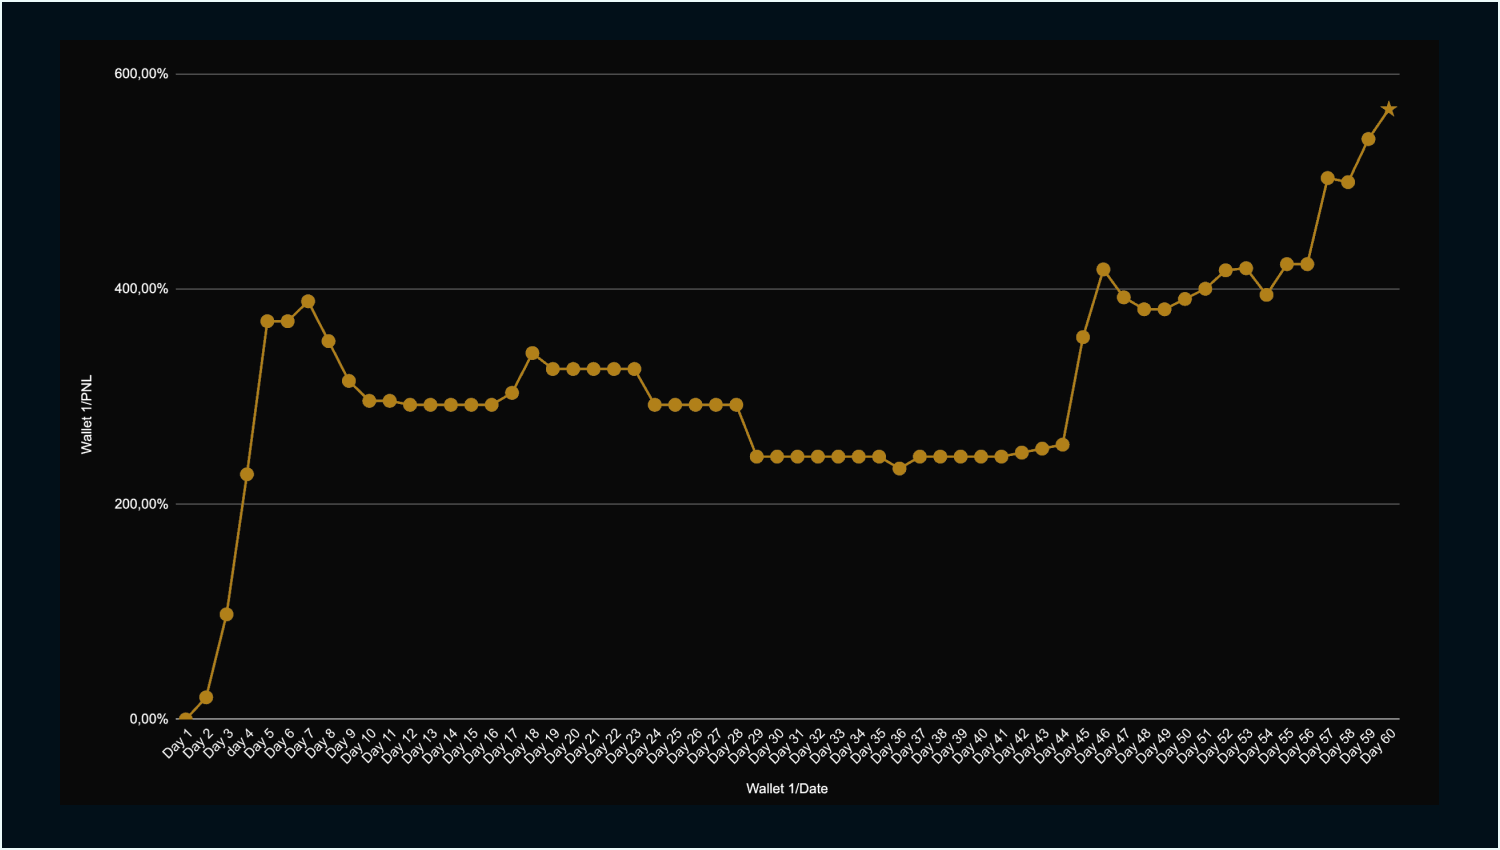
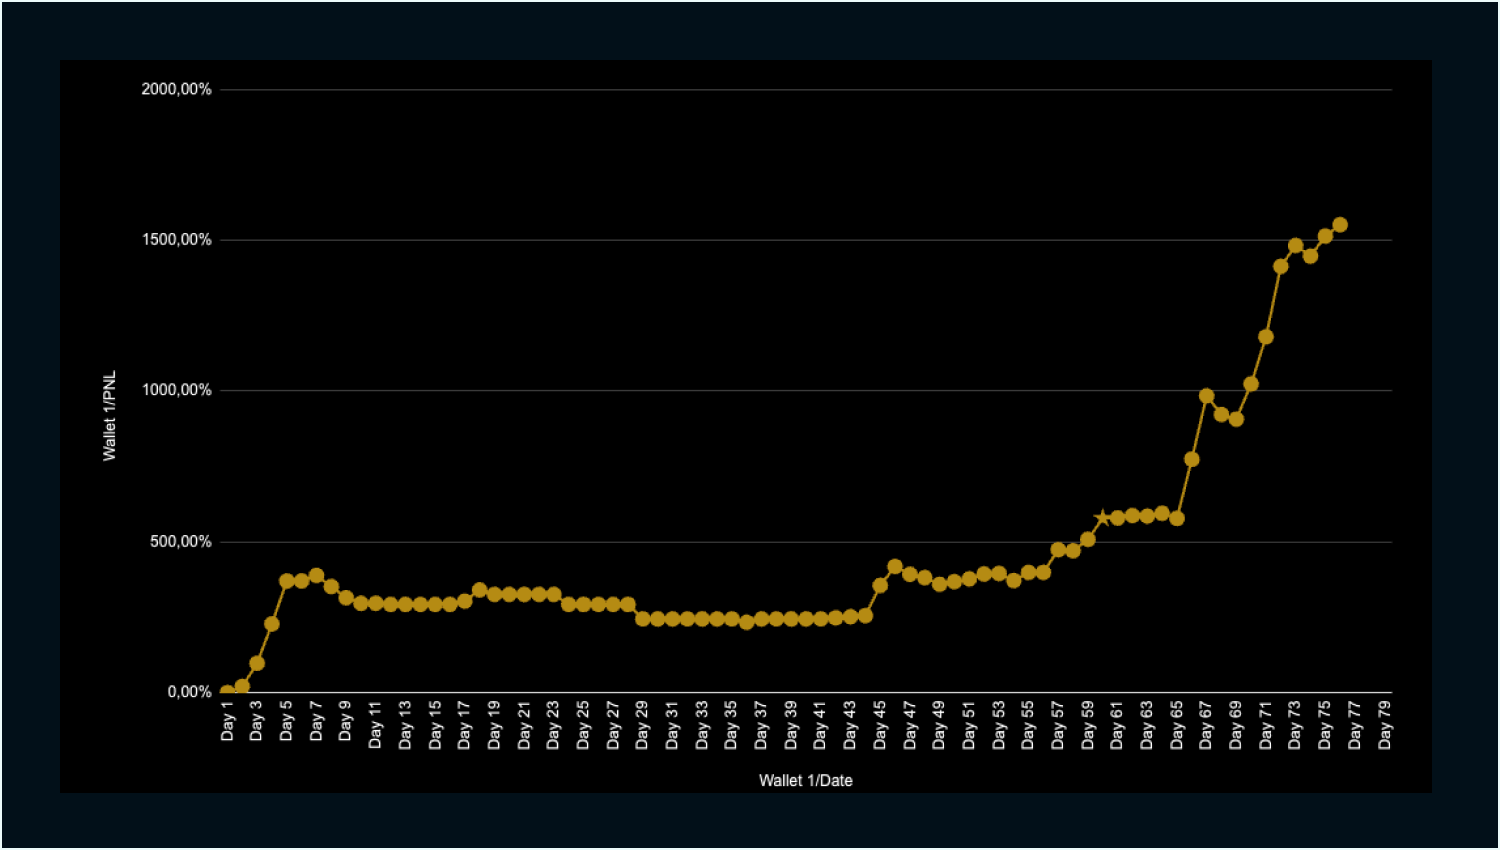
Pprevent hydration error on fund graph

diff --git a/src/components/FundContent.tsx b/src/components/FundContent.tsx
@@ -1,6 +1,6 @@
 'use client';
 
-import React from 'react';
+import React, { useEffect, useState } from 'react';
 import Image from 'next/image';
 import Link from 'next/link';
 import CenteredContent from './layouts/CenteredContent';
@@ -14,6 +14,9 @@ import FadeInUp from './motion/FadeInUp';
 import ContactForm from './ContactForm';
 
 export default function FundContent() {
+  const [mounted, setMounted] = useState(false);
+  useEffect(() => { setMounted(true); }, []);
+
   return (
     <>
       {/* Background Image */}
@@ -67,7 +70,7 @@ export default function FundContent() {
           </FadeInUp>
           <FadeInUp delay={0.4}>
             <PageSubtitle className="mb-6 md:mb-8">
-            Current performance: +567% since inception
+            Current performance: +1551% since inception
             </PageSubtitle>
           </FadeInUp>
         </CenteredContent>
@@ -75,14 +78,16 @@ export default function FundContent() {
         <CenteredContent>
           <div className="overflow-hidden">
             <FadeInUp delay={0.5}>
-              <Image
-                src="/visuals/fund_graph.png"
-                alt="Fund Performance Graph"
-                width={1200}
-                height={800}
-                className="w-full h-auto"
-                priority
-              />
+              {mounted && (
+                <Image
+                  src="/visuals/fund_graph.png"
+                  alt="Fund Performance Graph"
+                  width={1200}
+                  height={800}
+                  className="w-full h-auto"
+                  priority
+                />
+              )}
             </FadeInUp>
           </div>
         </CenteredContent>
